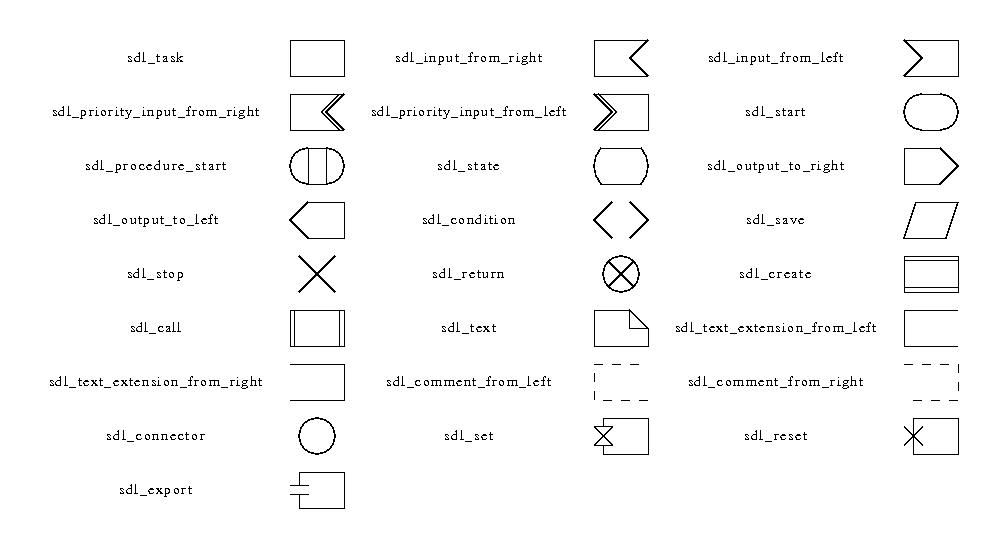
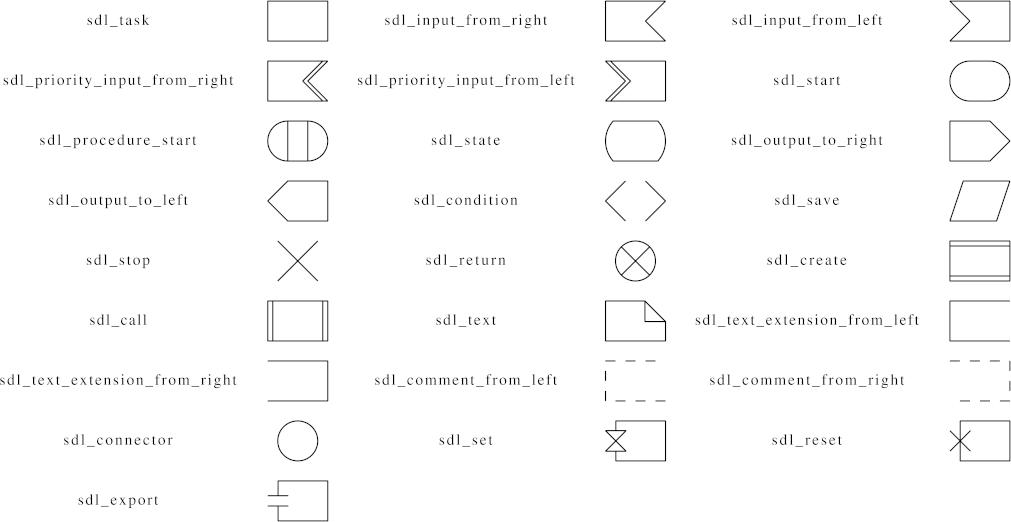
Update info

diff --git a/doc/info/shapes.html b/doc/info/shapes.html
@@ -833,6 +833,6 @@ COPYRIGHT AND PERMISSION NOTICE contained in the library file <tt>sdl.ps</tt>.
 <P>
 The table below
 gives the shape names and the corresponding node shapes.
-<IMG SRC=sdlshapes.png>
+<IMG SRC=sdlshapes.jpg>
 </BODY>
 </HTML>
